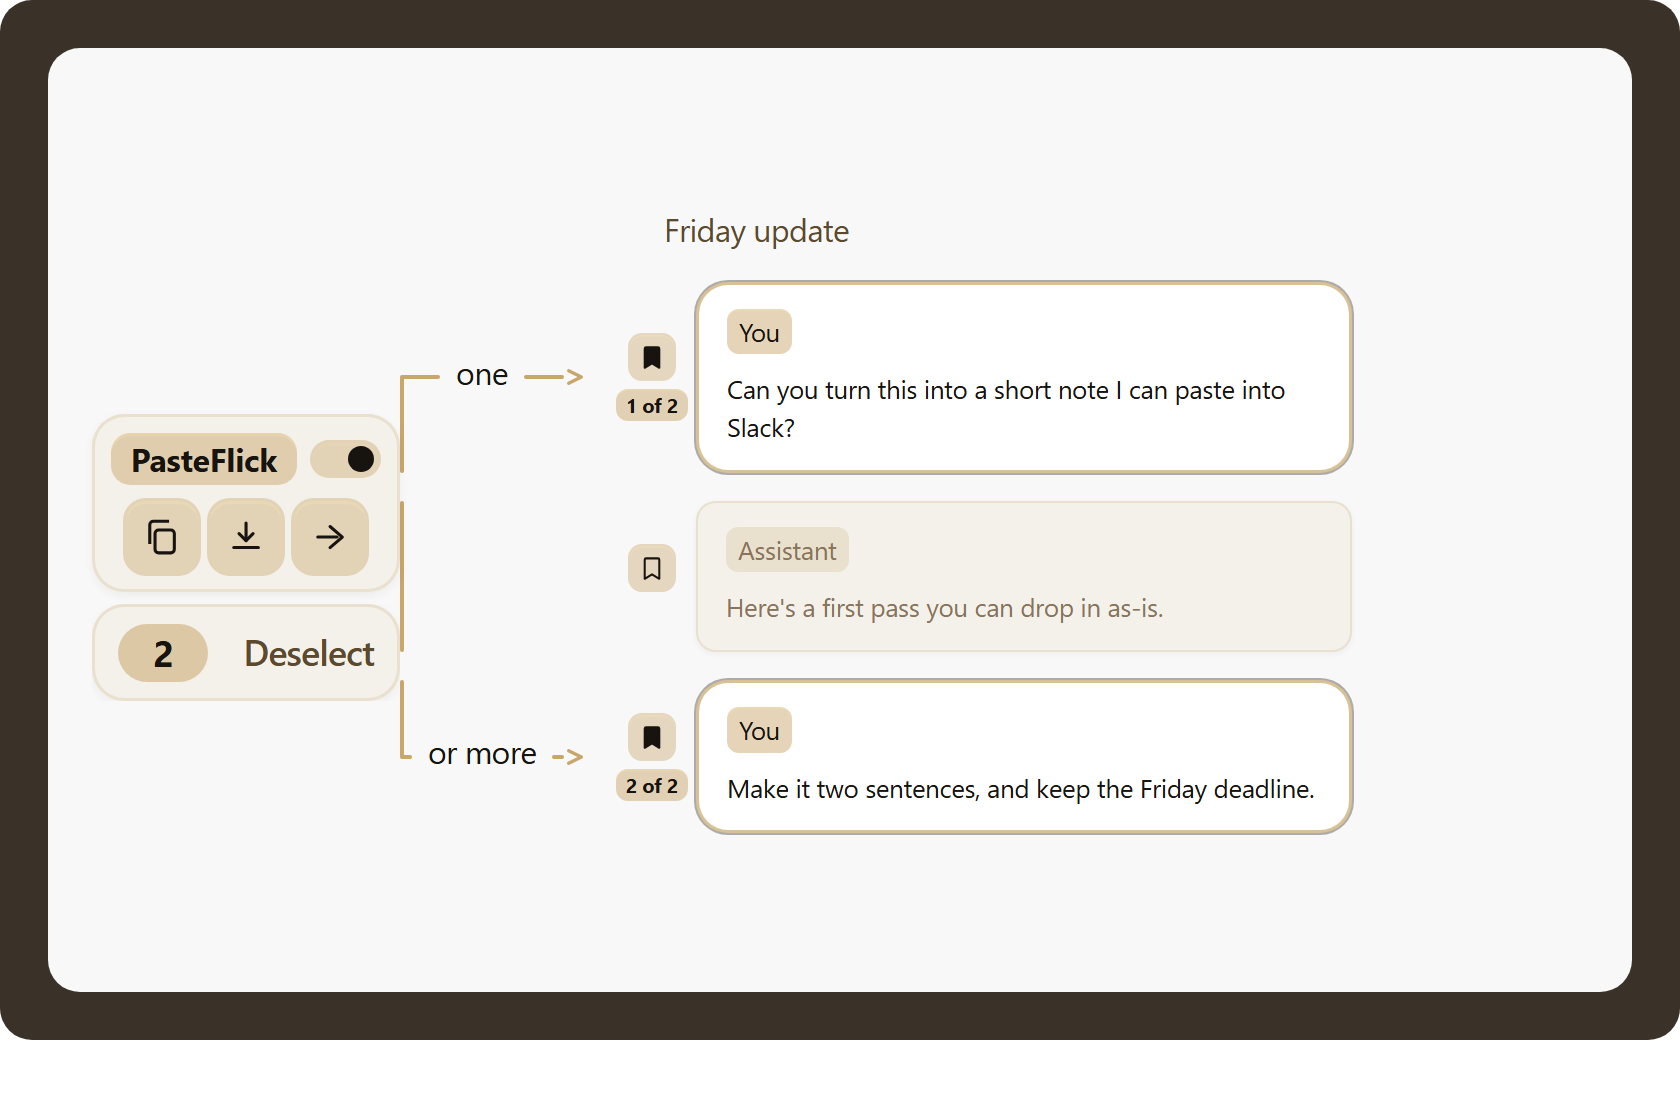
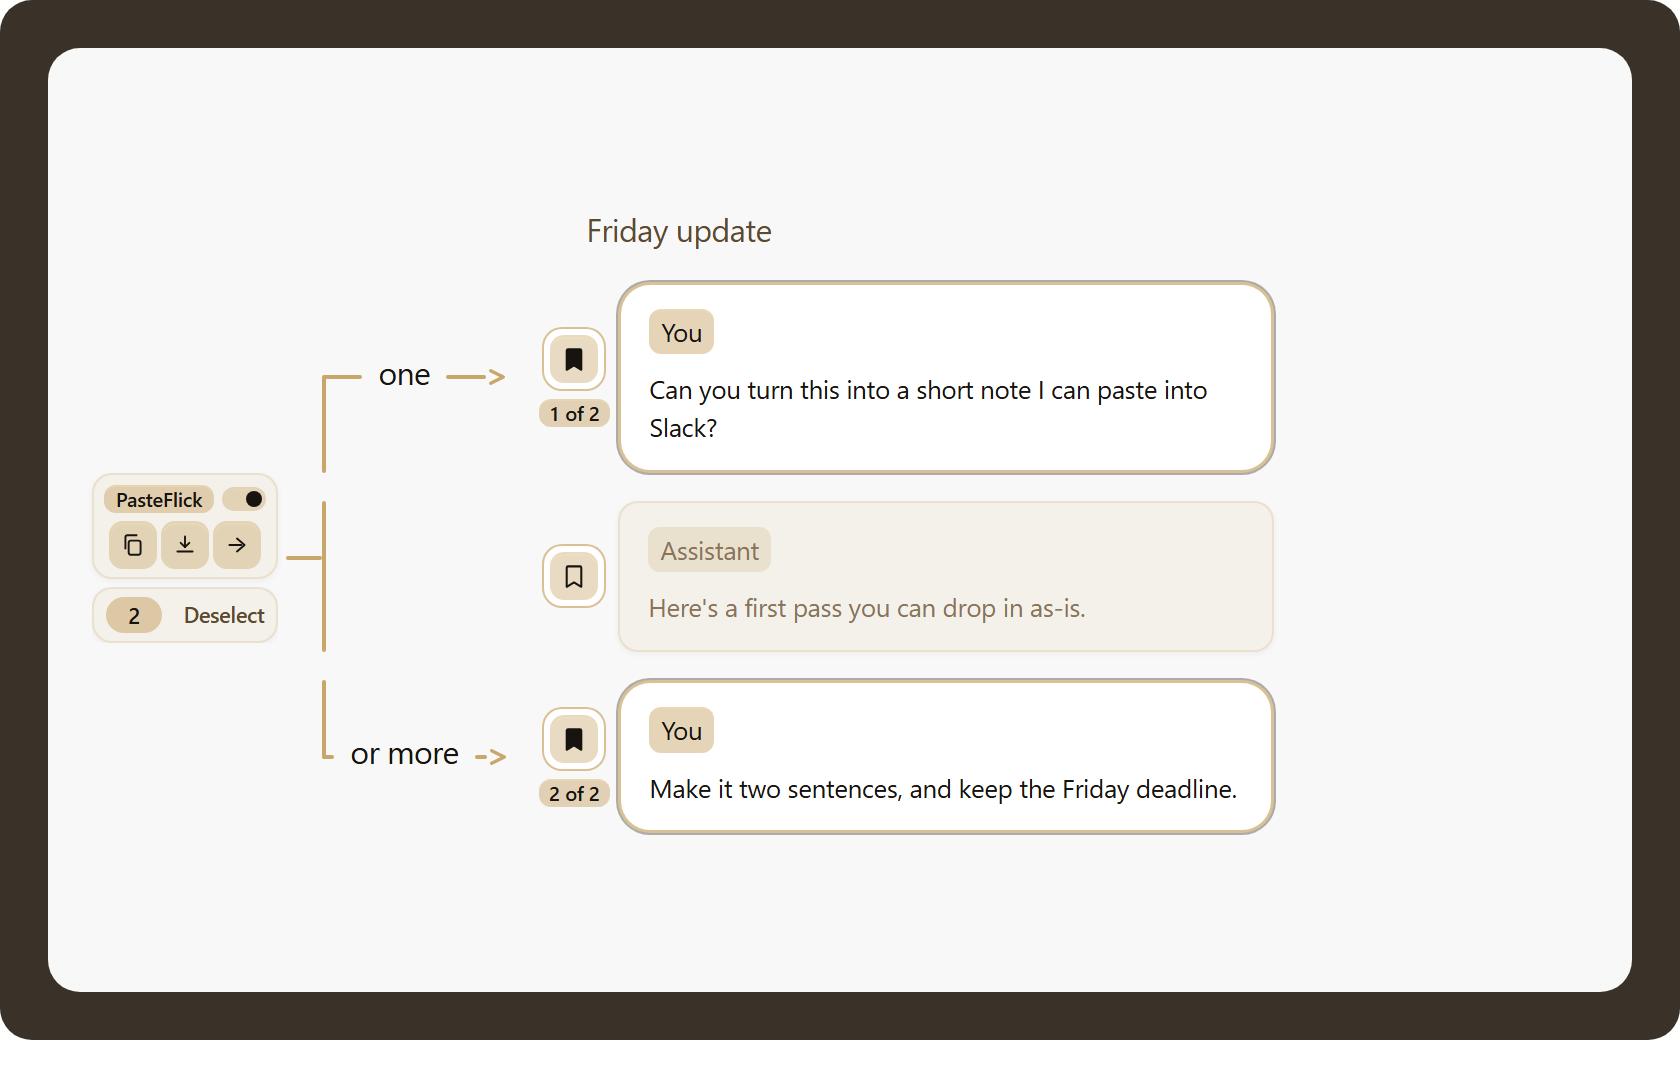
The second GitHub photo still had the PasteFlick chip and Deselect bar looking oversized compared to the earlier diagram from before Deselect existed. Bring that pair back down to the compact chip size from that photo, with Deselect sitting under it in proportion.

Changed region(s): [[0.0619, 0.1833, 0.8048, 0.7944], [0.0, 0.8556, 1.0, 0.9778]]

diff --git a/readme/capture_shots.py b/readme/capture_shots.py
@@ -451,10 +451,19 @@ html,body{{margin:0;width:840px;height:520px;background:transparent;}}
   align-items:center;
   z-index:2;
 }}
+{RAIL_SHOT_CSS}
 .chip-slot .pf-host{{
-  zoom:1.32;
+  zoom:1;
   flex:none;
   width:max-content;
+}}
+.chip-slot .stem{{
+  flex:none;
+  width:18px;
+  height:2px;
+  margin-left:4px;
+  background:#c9a66a;
+  border-radius:1px;
 }}
 .chip-slot [data-pasteflick="stack"]{{
   position:relative;
@@ -464,8 +473,8 @@ html,body{{margin:0;width:840px;height:520px;background:transparent;}}
   width:max-content;
 }}
 .chip-slot [data-pasteflick="pin"][data-kind="thread"]{{
-  width:max-content;
-  max-width:none;
+  width:max-content !important;
+  max-width:none !important;
 }}
 .chip-slot [data-pasteflick="drawer"].is-on{{
   grid-template-rows:max-content;
@@ -479,7 +488,6 @@ html,body{{margin:0;width:840px;height:520px;background:transparent;}}
 .chip-slot [data-pasteflick="clear"]{{
   padding:4px 6px;
 }}
-{RAIL_SHOT_CSS}
 .guide{{
   position:relative;
   align-self:stretch;
@@ -594,6 +602,7 @@ html,body{{margin:0;width:840px;height:520px;background:transparent;}}
       <p class="title">Friday update</p>
       <div class="chip-slot">
 {CHIP_BOUND_HTML}
+        <span class="stem" aria-hidden="true"></span>
       </div>
       <div class="guide one" aria-hidden="true">
         <span class="v"></span>
@@ -725,7 +734,7 @@ def main() -> None:
         shot(f"{base}/shot-pair.html?v=21", OUT / "view-and-settings-type.png", 840, 680, "00000000")
         shot(f"{base}/shot-popup.html?v=19", OUT / "panel-main-type.png", 332, 240, "00000000")
         shot(f"{base}/shot-settings.html?v=21", OUT / "panel-settings-type.png", 332, 700, "00000000")
-        shot(f"{base}/shot-chat.html?v=42", OUT / "marks-type.png", 840, 560, "00000000")
+        shot(f"{base}/shot-chat.html?v=44", OUT / "marks-fit.png", 840, 540, "00000000")
     finally:
         httpd.shutdown()
     print("ok")

diff --git a/README.md b/README.md
@@ -11,7 +11,7 @@
 <p align="center"><br></p>
 
 <p align="center">
-  <img src="readme/shots/marks-type.png" width="760" alt="Bookmark messages — PasteFlick chip with Deselect underneath, gold ring, 1 of 2 under a selected mark">
+  <img src="readme/shots/marks-fit.png" width="760" alt="Bookmark messages — compact PasteFlick chip with Deselect underneath, gold ring, 1 of 2 under a selected mark">
 </p>
 
 <p align="center"><br></p>
